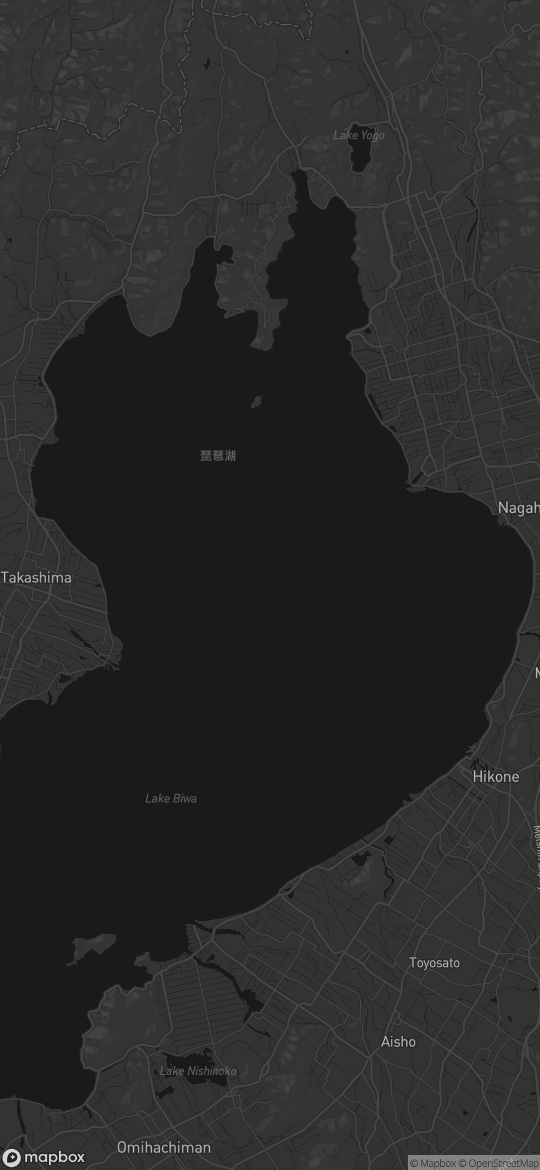
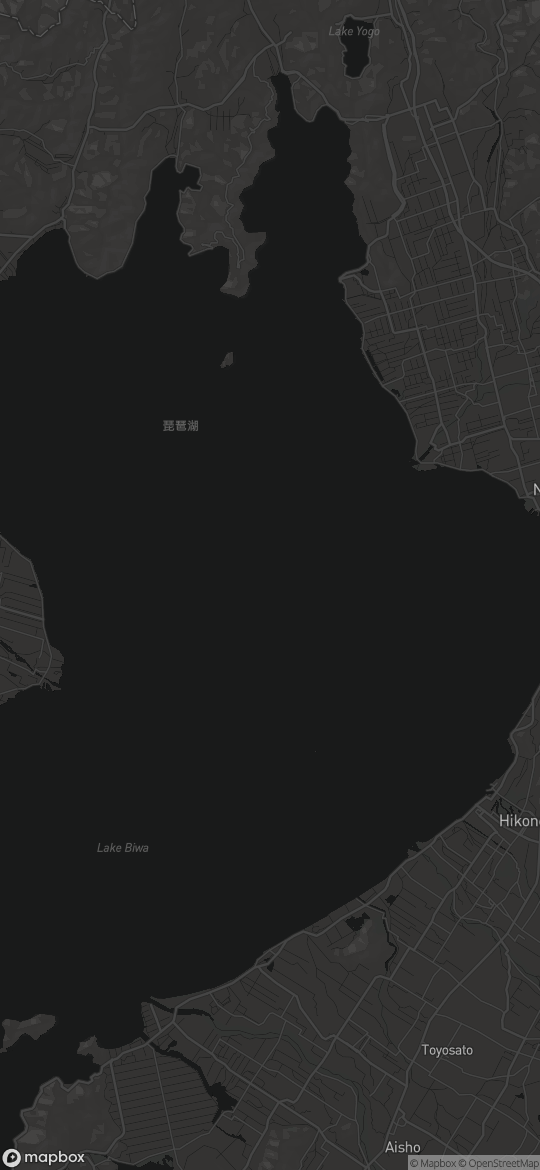
画像差し替え忘れてた

diff --git a/app/src/main/cpp/native-lib.cpp b/app/src/main/cpp/native-lib.cpp
@@ -44,14 +44,14 @@ enum [[maybe_unused]] {
     PLACE_MAX,
 };
 // 各場所のURL（琵琶湖、富士川、大利根）※ MAPBOXからダウンロード可能
-// https://api.mapbox.com/styles/v1/mapbox/dark-v10/static/136.16,35.35,10.9,0/540x1170?access_token=pk.eyJ1IjoiMjFrbTQiLCJhIjoiY2xhdHFmM3BpMDB0NTNxcDl3b2pqN3Q1ZyJ9.8jqJf75DqkkTv5IYb8c1Pg
+// https://api.mapbox.com/styles/v1/mapbox/dark-v10/static/136.16,35.35,10.8,0/540x1170?access_token=pk.eyJ1IjoiMjFrbTQiLCJhIjoiY2xhdHFmM3BpMDB0NTNxcDl3b2pqN3Q1ZyJ9.8jqJf75DqkkTv5IYb8c1Pg
 // https://api.mapbox.com/styles/v1/mapbox/dark-v10/static/138.6315,35.121,16.25,0/540x1170?access_token=pk.eyJ1IjoiMjFrbTQiLCJhIjoiY2xhdHFmM3BpMDB0NTNxcDl3b2pqN3Q1ZyJ9.8jqJf75DqkkTv5IYb8c1Pg
 // https://api.mapbox.com/styles/v1/mapbox/dark-v10/static/140.2412,35.8594,15.75,0/540x1170?access_token=pk.eyJ1IjoiMjFrbTQiLCJhIjoiY2xhdHFmM3BpMDB0NTNxcDl3b2pqN3Q1ZyJ9.8jqJf75DqkkTv5IYb8c1Pg
 static const char *IMAGE_MAP_PATH[PLACE_MAX] = {"biwako.png", "hujikawa.png", "ootone.png"};
 static const double C_LAT[PLACE_MAX] = {35.35, 35.121, 35.8594}; // 中心の緯度
 static const double C_LON[PLACE_MAX] = {136.16, 138.6315, 140.2412}; // 中心の経度
-static const double X_SCALE[PLACE_MAX] = {4100.0, 220650.0, 156500.0}; // X座標の拡大率
-static const double Y_SCALE[PLACE_MAX] = {-5000.0, -274500.0, -194000.0}; // Y座標の拡大率
+static const double X_SCALE[PLACE_MAX] = {4900.0, 220650.0, 156500.0}; // X座標の拡大率
+static const double Y_SCALE[PLACE_MAX] = {-6000.0, -274500.0, -194000.0}; // Y座標の拡大率
 
 static int current_place = 0;
 
@@ -494,7 +494,7 @@ void get_json_data() {
                 const int DISTANCE_BORDER[4] = {5, 10, 15, 18};
                 for (int i = 0; i < 4; i++) {
                     SetDrawBlendMode(DX_BLENDGRAPHTYPE_ALPHA, 0x40);
-                    DrawCircle(px, py, DISTANCE_BORDER[i] * 45, COLOR_WHITE, false, 5);
+                    DrawCircle(px, py, DISTANCE_BORDER[i] * 53.8, COLOR_WHITE, false, 5);
                     SetDrawBlendMode(DX_BLENDMODE_NOBLEND, NULL);
                 }
                 // プラットホーム場所にプロット
